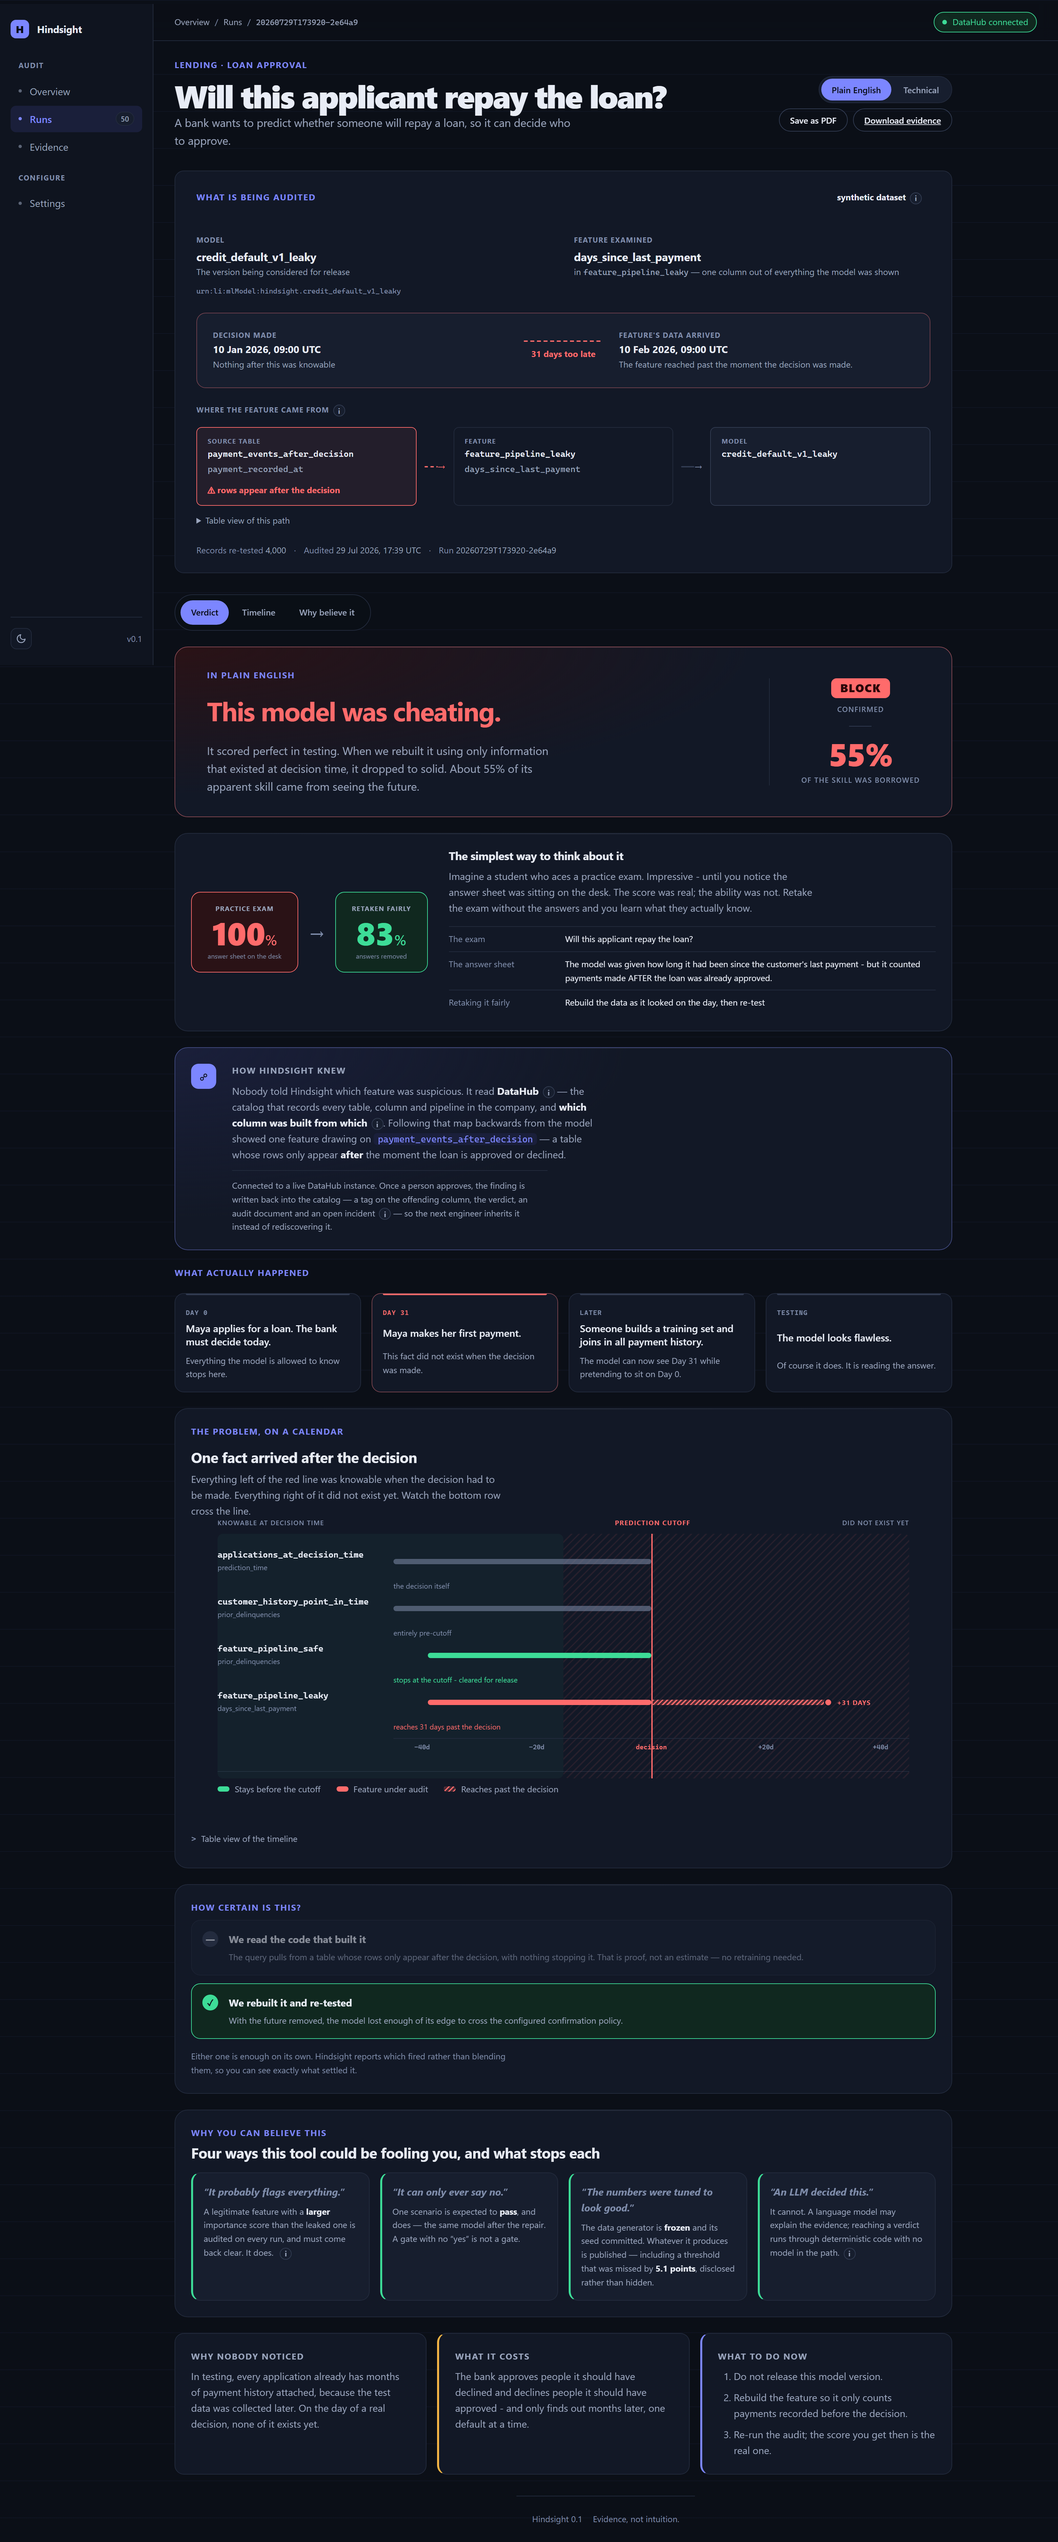
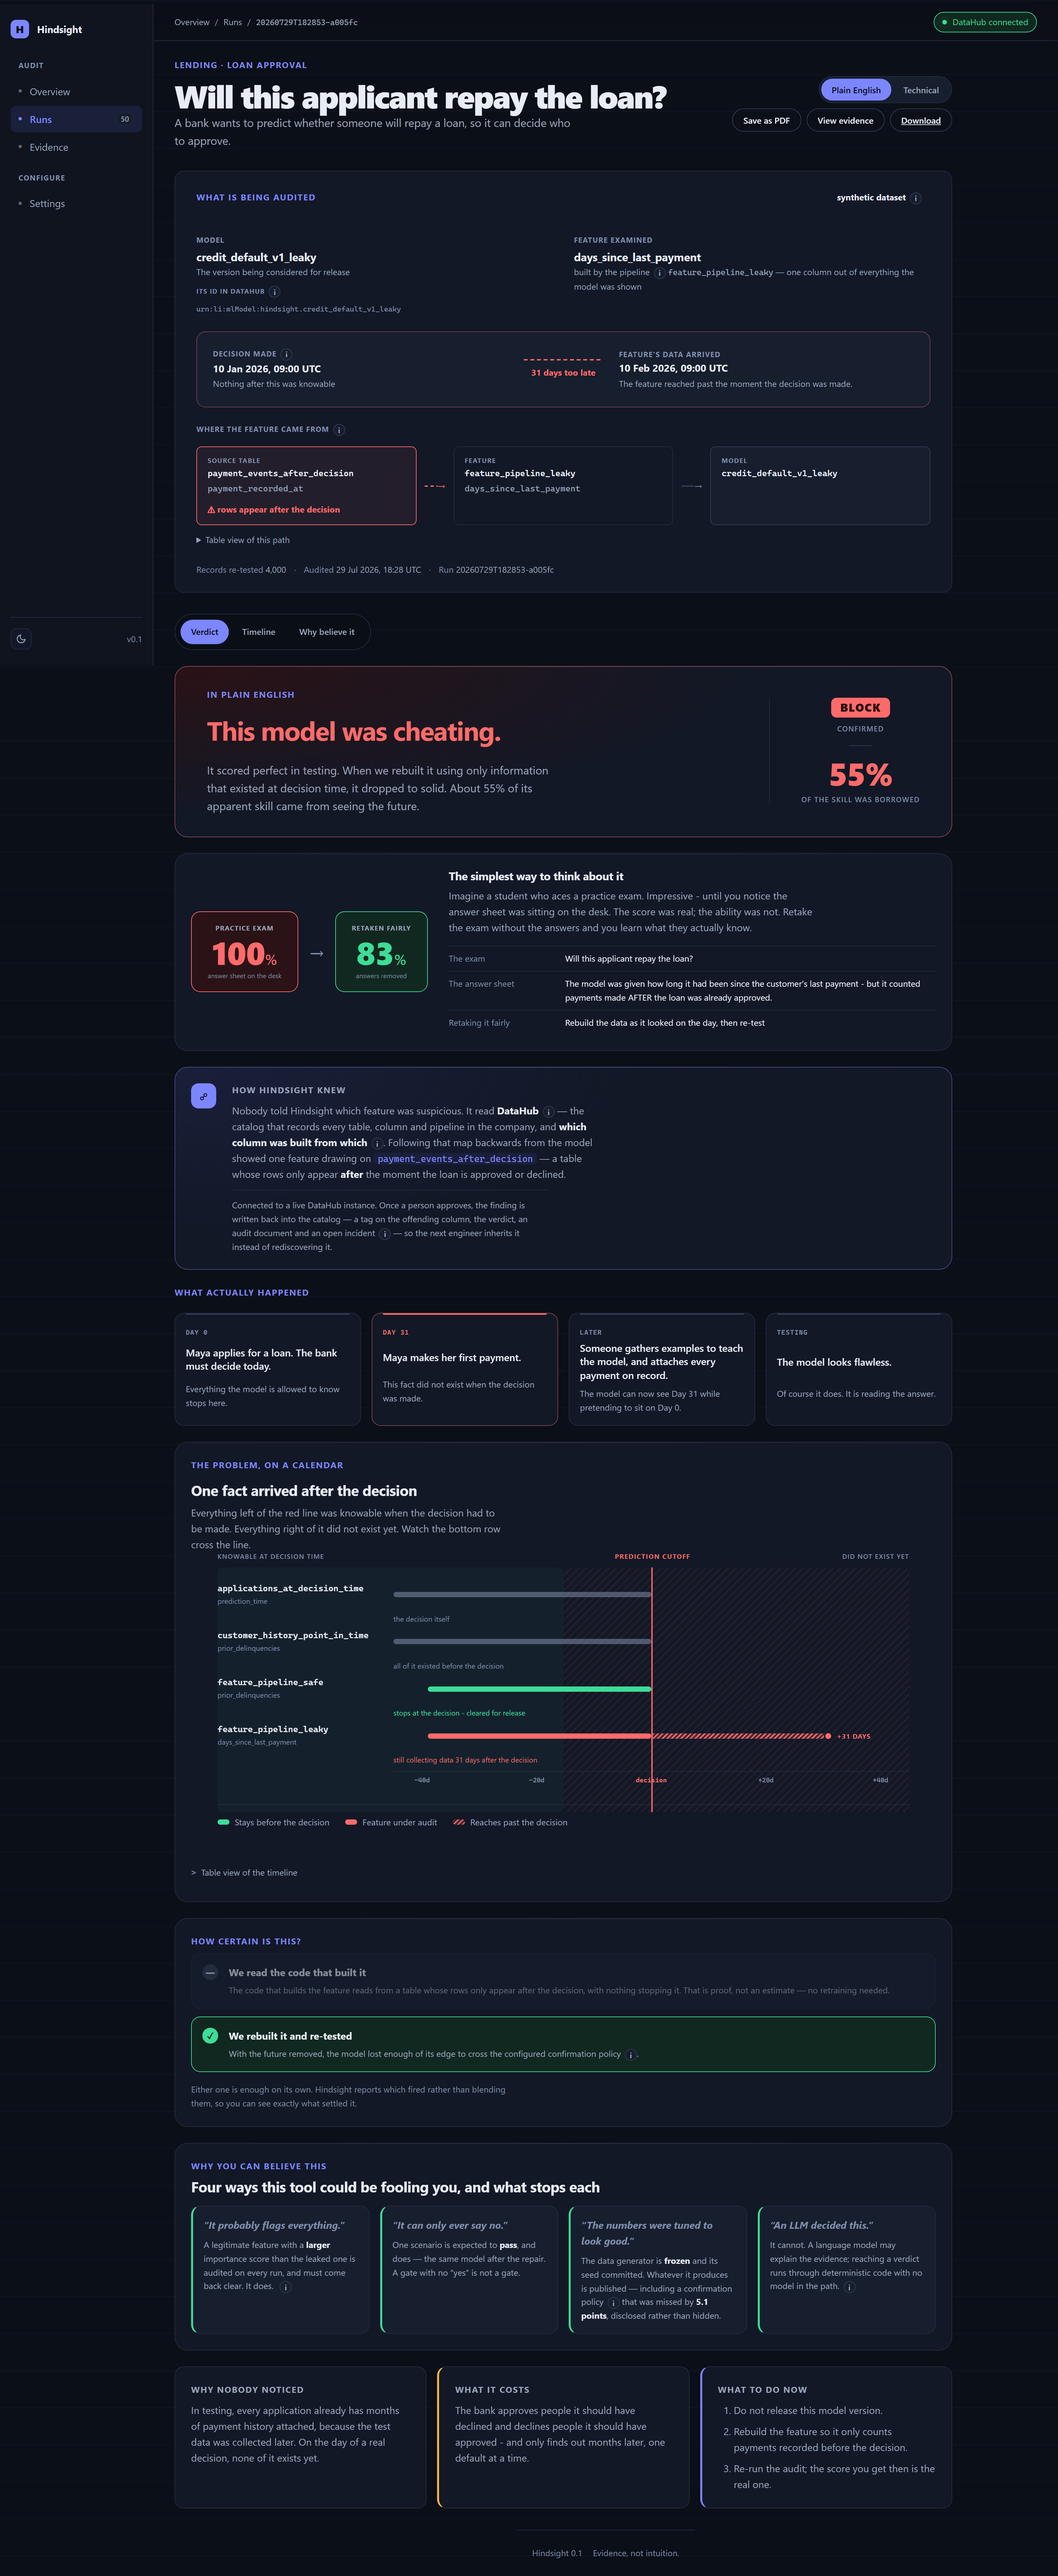
Explain every term a plain-mode reader meets

diff --git a/src/hindsight/web/templates/_story.html b/src/hindsight/web/templates/_story.html
@@ -117,8 +117,9 @@
         <div>
           <strong>We read the code that built it</strong>
           <span>
-            The query pulls from a table whose rows only appear after the decision, with
-            nothing stopping it. That is proof, not an estimate &mdash; no retraining needed.
+            The code that builds the feature reads from a table whose rows only appear
+            after the decision, with nothing stopping it. That is proof, not an estimate
+            &mdash; no retraining needed.
           </span>
         </div>
       </div>
@@ -131,10 +132,10 @@
           <span>
             {% if bundle.validation.leakage_case.collapsed %}
             With the future removed, the model lost enough of its edge to cross the configured
-            confirmation policy.
+            confirmation policy{{ info('confirmation-policy') }}.
             {% else %}
             Performance fell when future data was removed, but not far enough to cross the
-            configured confirmation policy. This route is supporting evidence only.
+            configured confirmation policy{{ info('confirmation-policy') }}. This route is supporting evidence only.
             {% endif %}
           </span>
         </div>
@@ -176,8 +177,8 @@
         <p class="trust-q">&ldquo;The numbers were tuned to look good.&rdquo;</p>
         <p class="trust-a">
           The data generator is <strong>frozen</strong> and its seed committed. Whatever it
-          produces is published &mdash; including a threshold that was missed by
-          <strong>5.1 points</strong>, disclosed rather than hidden.
+          produces is published &mdash; including a confirmation policy{{ info('confirmation-policy') }} that was missed
+          by <strong>5.1 points</strong>, disclosed rather than hidden.
         </p>
       </article>
       <article class="trust-item">

diff --git a/src/hindsight/web/templates/_subject.html b/src/hindsight/web/templates/_subject.html
@@ -25,7 +25,13 @@
       <p class="subject-label">Model</p>
       <p class="subject-name">{{ subject.model.name }}</p>
       <p class="subject-sub">{{ subject.model.note }}</p>
-      <code class="subject-urn" title="{{ subject.model.urn }}">{{ subject.model.urn }}</code>
+      {#- A bare urn:li:... string is meaningless to anyone who has not seen one.
+          It stays, because it is what makes the finding traceable, but it now
+          says what it is. -#}
+      <p class="subject-urn-row">
+        <span class="subject-urn-label">Its id in DataHub{{ info('urn') }}</span>
+        <code class="subject-urn" title="{{ subject.model.urn }}">{{ subject.model.urn }}</code>
+      </p>
     </div>
     {% endif %}
 
@@ -34,7 +40,8 @@
       <p class="subject-label">Feature examined</p>
       <p class="subject-name">{{ subject.feature.name }}</p>
       <p class="subject-sub">
-        in <code>{{ subject.feature.table }}</code> &mdash; {{ subject.feature.note | lower }}
+        built by the pipeline{{ info('pipeline') }}
+        <code>{{ subject.feature.table }}</code> &mdash; {{ subject.feature.note | lower }}
       </p>
     </div>
     {% endif %}
@@ -45,7 +52,7 @@
       dates are shown as a span with the gap called out between them. -#}
   <div class="subject-when{% if subject.timing.late %} is-late{% endif %}">
     <div class="when-point">
-      <span class="when-label">Decision made</span>
+      <span class="when-label">Decision made{{ info('prediction-cutoff') }}</span>
       <span class="when-date">{{ subject.timing.cutoff }}</span>
       <span class="when-note">Nothing after this was knowable</span>
     </div>

diff --git a/src/hindsight/web/static/styles.css b/src/hindsight/web/static/styles.css
@@ -2409,3 +2409,14 @@ h3 { letter-spacing: -0.015em; }
 .evidence-record .artifact { max-height: 460px; }
 
 @media (max-width: 640px) { .evidence-record { padding: var(--sp-5) var(--sp-4); } }
+
+/* The URN, labelled. It is provenance, so it stays visible, but a bare
+   urn:li:... string means nothing to a reader who has not seen one before. */
+.subject-urn-row { margin: var(--sp-2) 0 0; display: grid; gap: 1px; min-width: 0; }
+.subject-urn-label {
+  font-size: 10px;
+  text-transform: uppercase;
+  letter-spacing: 0.07em;
+  font-weight: 700;
+  color: var(--text-faint);
+}

diff --git a/src/hindsight/web/templates/_timeline.html b/src/hindsight/web/templates/_timeline.html
@@ -45,7 +45,7 @@
   </div>
 
   <div class="tl-legend">
-    <span class="tl-key"><span class="tl-swatch safe" aria-hidden="true"></span> Stays before the cutoff</span>
+    <span class="tl-key"><span class="tl-swatch safe" aria-hidden="true"></span> Stays before the decision</span>
     <span class="tl-key"><span class="tl-swatch leak" aria-hidden="true"></span> Feature under audit</span>
     <span class="tl-key"><span class="tl-swatch future" aria-hidden="true"></span> Reaches past the decision</span>
   </div>

diff --git a/src/hindsight/web/glossary.py b/src/hindsight/web/glossary.py
@@ -59,6 +59,38 @@ GLOSSARY: dict[str, dict[str, str]] = {
             "information originated."
         ),
     },
+    "urn": {
+        "term": "URN",
+        "short": "DataHub's name for one specific thing.",
+        "body": (
+            "Every table, column and model in the catalog gets one unique identifier, "
+            "so two teams talking about 'the payments table' can be sure they mean the "
+            "same one. It reads left to right: the kind of thing, then where it lives, "
+            "then its name. You never have to type one - it is shown so that a finding "
+            "can be traced to exactly one asset and no other."
+        ),
+    },
+    "pipeline": {
+        "term": "Pipeline",
+        "short": "The code that builds one table from others.",
+        "body": (
+            "Data rarely arrives ready to use. A pipeline is the step that reads some "
+            "tables, does something to them, and writes a new one. The defect this tool "
+            "looks for is usually created inside a pipeline, long before anyone starts "
+            "training a model - which is why looking only at the model misses it."
+        ),
+    },
+    "confirmation-policy": {
+        "term": "Confirmation policy",
+        "short": "How much collapse counts as proof.",
+        "body": (
+            "Rebuilding a model without the future always lowers its score a little. "
+            "The policy is the line, written down in advance, above which that drop "
+            "counts as proof rather than noise. Choosing it after seeing the result "
+            "would let anyone prove anything, so it is fixed first and the measured "
+            "margin against it is published either way."
+        ),
+    },
     "prediction-cutoff": {
         "term": "Prediction cutoff",
         "short": "The moment the model must decide.",

diff --git a/src/hindsight/scenarios.py b/src/hindsight/scenarios.py
@@ -98,7 +98,10 @@ SCENARIOS: dict[str, Scenario] = {
             },
             {
                 "when": "Later",
-                "what": "Someone builds a training set and joins in all payment history.",
+                "what": (
+                    "Someone gathers examples to teach the model, and attaches "
+                    "every payment on record."
+                ),
                 "note": "The model can now see Day 31 while pretending to sit on Day 0.",
             },
             {
@@ -146,8 +149,10 @@ SCENARIOS: dict[str, Scenario] = {
             },
             {
                 "when": "Later",
-                "what": "The training set is rebuilt with the availability guard in place.",
-                "note": "Only pre-decision facts survive the join.",
+                "what": (
+                    "The examples are gathered again, keeping only what was on record at the time."
+                ),
+                "note": "Only facts that already existed survive.",
             },
             {
                 "when": "Testing",
@@ -244,7 +249,7 @@ SCENARIOS: dict[str, Scenario] = {
             },
             {
                 "when": "Later",
-                "what": "The training set joins in all appointments, whenever they happened.",
+                "what": "The examples attach every appointment, whenever it was booked.",
                 "note": "The model reads Day 22 while pretending to sit on Day 0.",
             },
             {

diff --git a/src/hindsight/web/timeline.py b/src/hindsight/web/timeline.py
@@ -104,7 +104,7 @@ def build_timeline(bundle: dict[str, Any], scenario: dict[str, Any]) -> Timeline
             start_pct=pct(start),
             end_pct=CUTOFF_PCT,
             kind="source",
-            note="entirely pre-cutoff",
+            note="all of it existed before the decision",
         ),
         Track(
             label=safe_feature_asset,
@@ -112,7 +112,7 @@ def build_timeline(bundle: dict[str, Any], scenario: dict[str, Any]) -> Timeline
             start_pct=pct(start + timedelta(days=6)),
             end_pct=CUTOFF_PCT,
             kind="safe",
-            note="stops at the cutoff - cleared for release",
+            note="stops at the decision - cleared for release",
         ),
         Track(
             label=leak_feature_asset,
@@ -123,7 +123,7 @@ def build_timeline(bundle: dict[str, Any], scenario: dict[str, Any]) -> Timeline
             crosses=True,
             reach_pct=pct(leak_reach),
             days_after=days_after,
-            note=f"reaches {days_after} days past the decision",
+            note=f"still collecting data {days_after} days after the decision",
         ),
     ]
 
